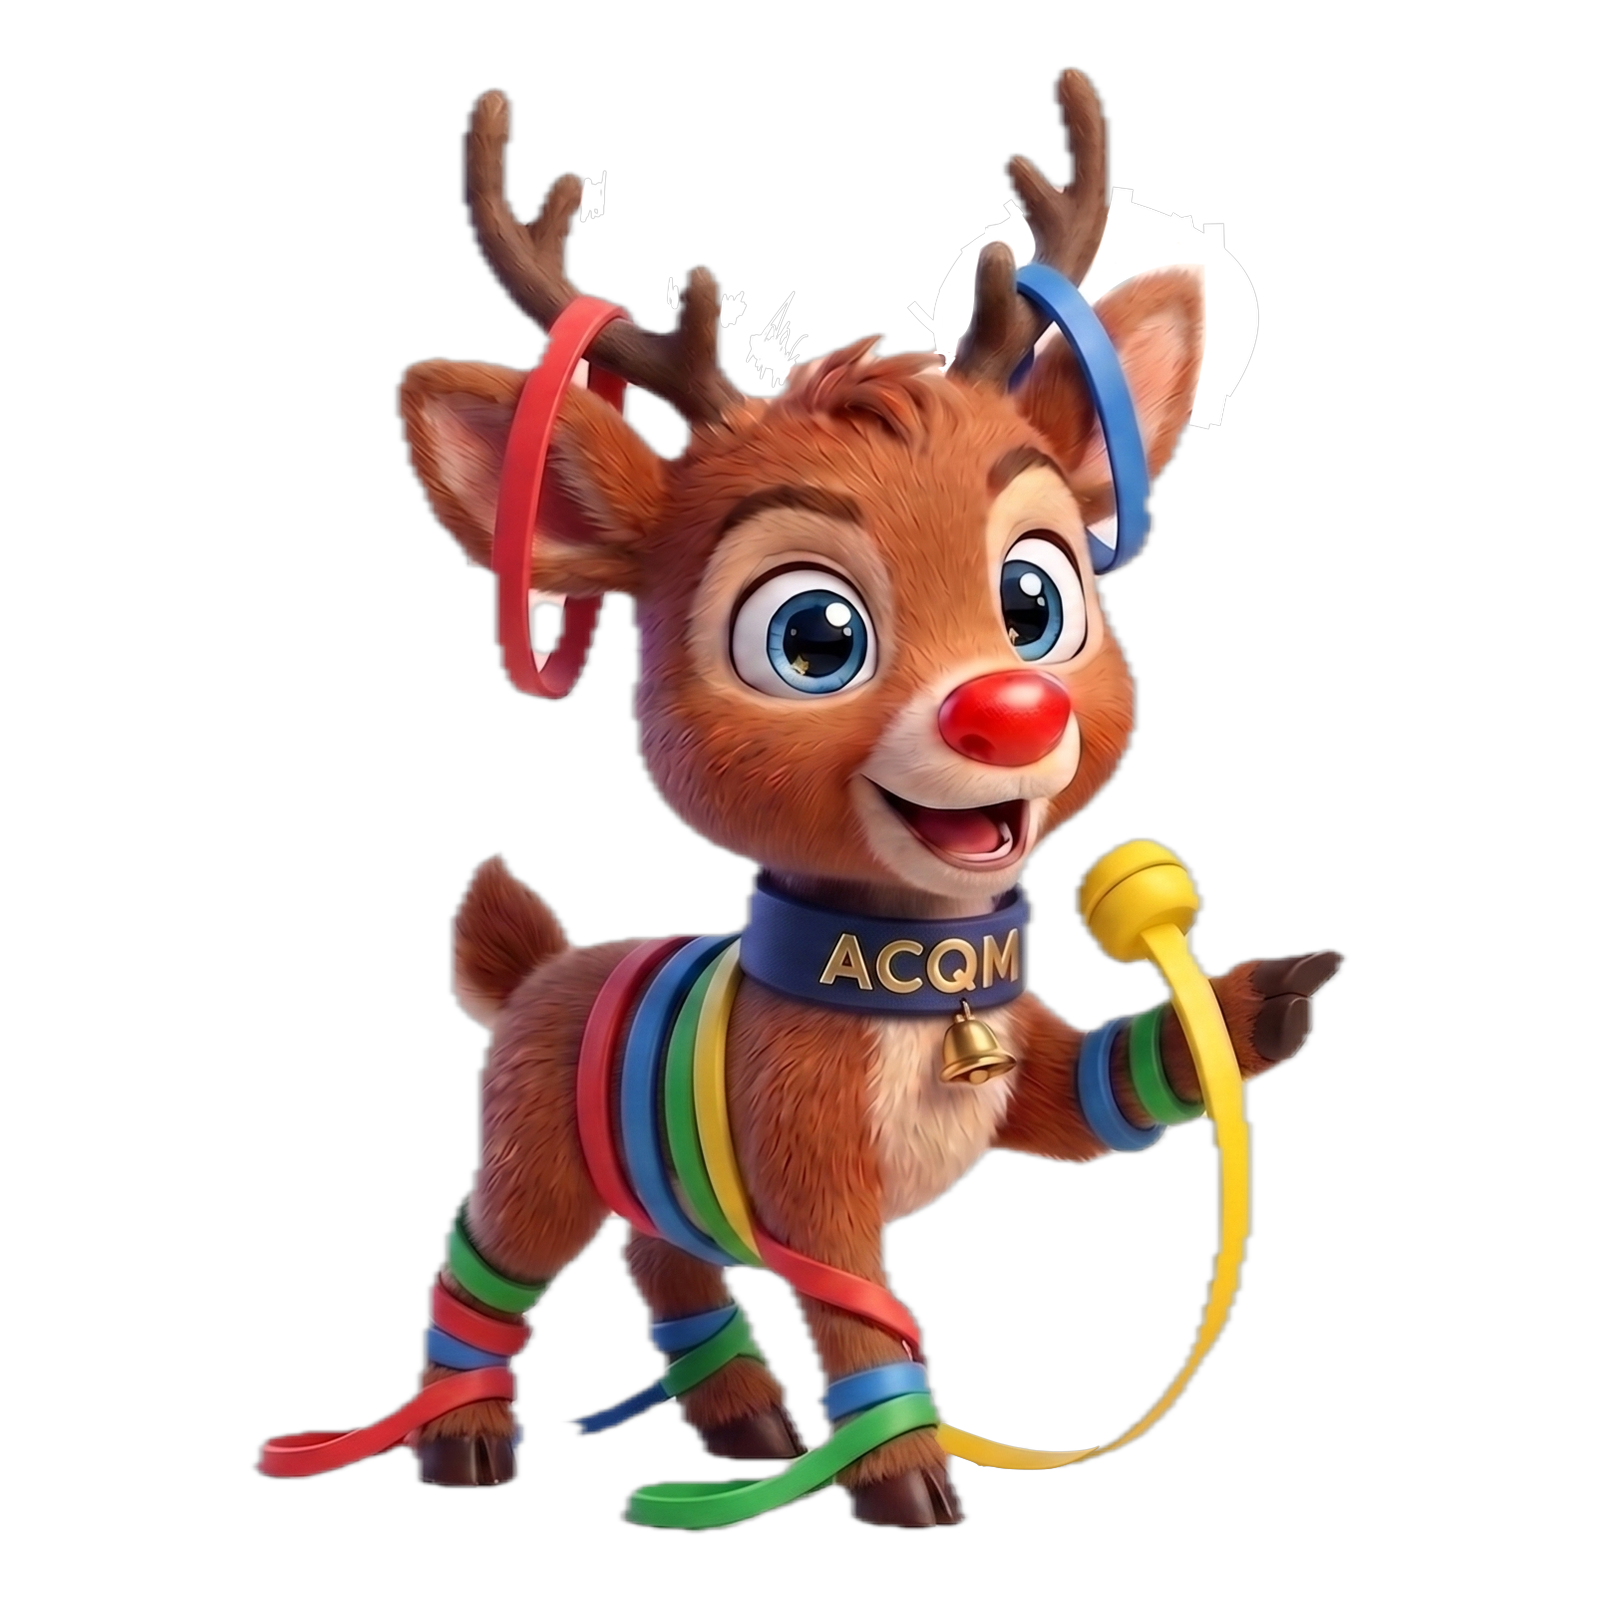
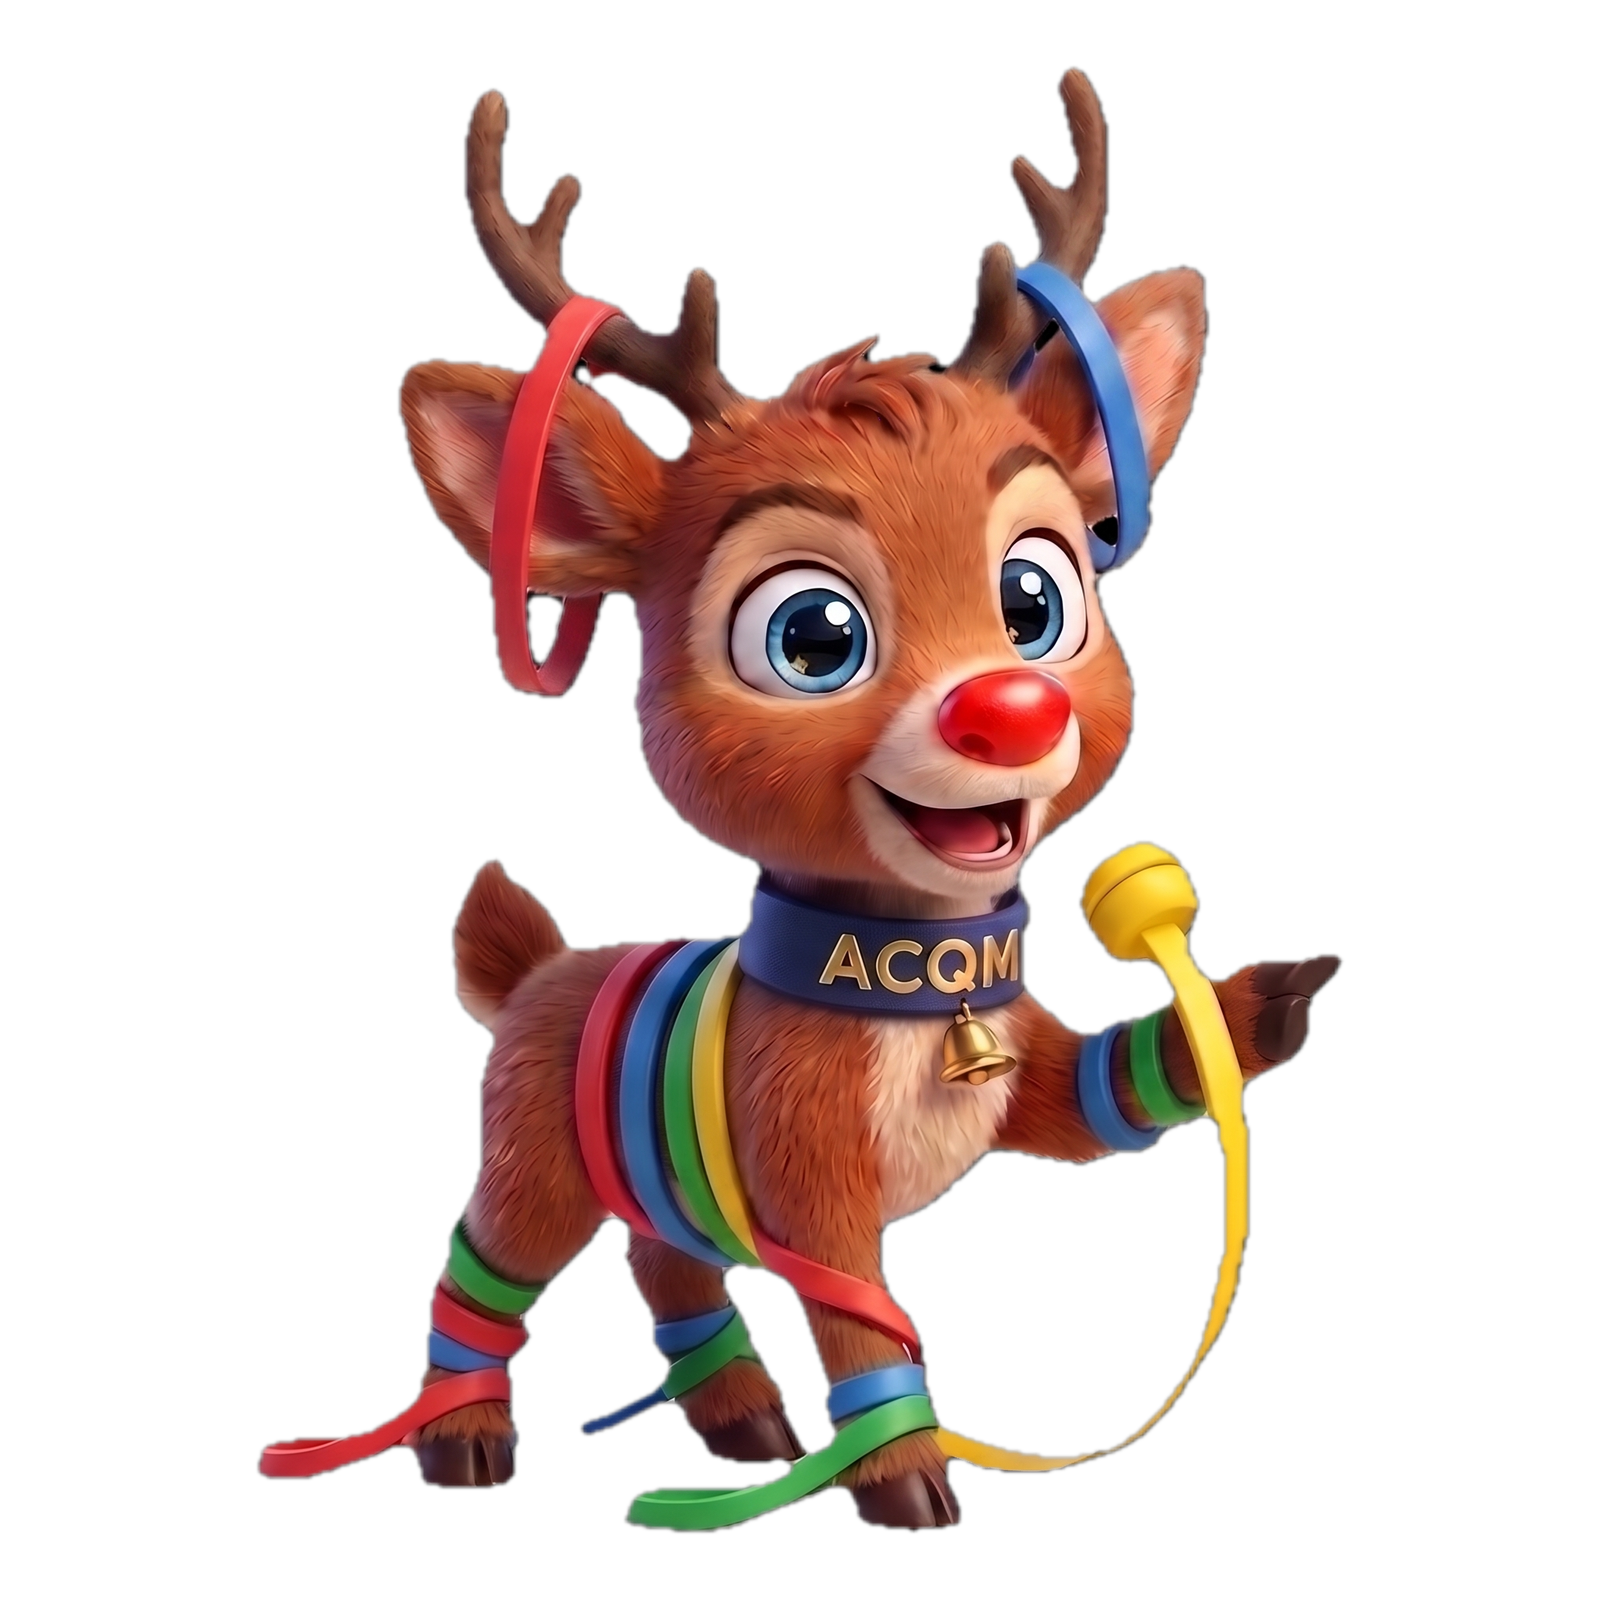
fix(assets): 새로 수정한 ACQM 누끼 반영 (흰색 잔여 제거)
- 교체된 ACQM 원본(2048px)을 정규화(1600px 정사각·92% 채움) 후 WebP 재생성(104KB)
- 흰색 근접 픽셀 3.7% → 0.4%로 정리되어 어두운 배경에서도 얼룩 없음
- tools/normalize-cutouts.py·webp-cutouts.py: 인자로 유형 코드를 주면 그 유형만 처리(다른 15종 불필요한 재생성 방지)

diff --git a/tools/normalize-cutouts.py b/tools/normalize-cutouts.py
@@ -10,7 +10,7 @@
   → 투명 여백을 잘라내고, 긴 변이 항상 캔버스의 FILL 비율이 되도록 정사각으로 다시 앉힌다.
   → 유형별 scale-[1.25] 같은 보정이 필요 없어진다.
 """
-import os, glob
+import os, sys, glob
 from PIL import Image
 
 ROOT = os.path.dirname(os.path.dirname(os.path.abspath(__file__)))
@@ -18,7 +18,10 @@ SRC = os.path.join(ROOT, 'src', 'assets', '누끼 버전')
 FILL = 0.92        # 긴 변이 캔버스에서 차지할 비율
 MAX_SIDE = 1600    # 웹 표시용으로 충분한 크기(용량 절감)
 
+only = {a.upper() for a in sys.argv[1:]}          # 인자를 주면 그 유형만 처리
 for p in sorted(glob.glob(SRC + '/*.png')):
+    if only and os.path.basename(p).split()[0].upper() not in only:
+        continue
     im = Image.open(p).convert('RGBA')
     bbox = im.getchannel('A').point(lambda v: 255 if v > 8 else 0).getbbox()
     if not bbox:

diff --git a/tools/webp-cutouts.py b/tools/webp-cutouts.py
@@ -6,7 +6,7 @@
 PNG 원본(고화질)은 그대로 두고, 사이트는 가벼운 .webp 를 import 한다.
 화면에서 가장 크게 쓰이는 곳이 홈 모달(384px @3x ≈ 1152px)이라 1200px 이면 충분하다.
 """
-import os, glob
+import os, sys, glob
 from PIL import Image
 
 SRC = os.path.join(os.path.dirname(os.path.dirname(os.path.abspath(__file__))),
@@ -14,7 +14,10 @@ SRC = os.path.join(os.path.dirname(os.path.dirname(os.path.abspath(__file__))),
 MAX_SIDE, QUALITY = 1200, 88
 
 tot_png = tot_webp = 0
+only = {a.upper() for a in sys.argv[1:]}          # 인자를 주면 그 유형만 처리
 for p in sorted(glob.glob(SRC + '/*.png')):
+    if only and os.path.basename(p).split()[0].upper() not in only:
+        continue
     im = Image.open(p).convert('RGBA')
     if max(im.size) > MAX_SIDE:
         im.thumbnail((MAX_SIDE, MAX_SIDE), Image.LANCZOS)
